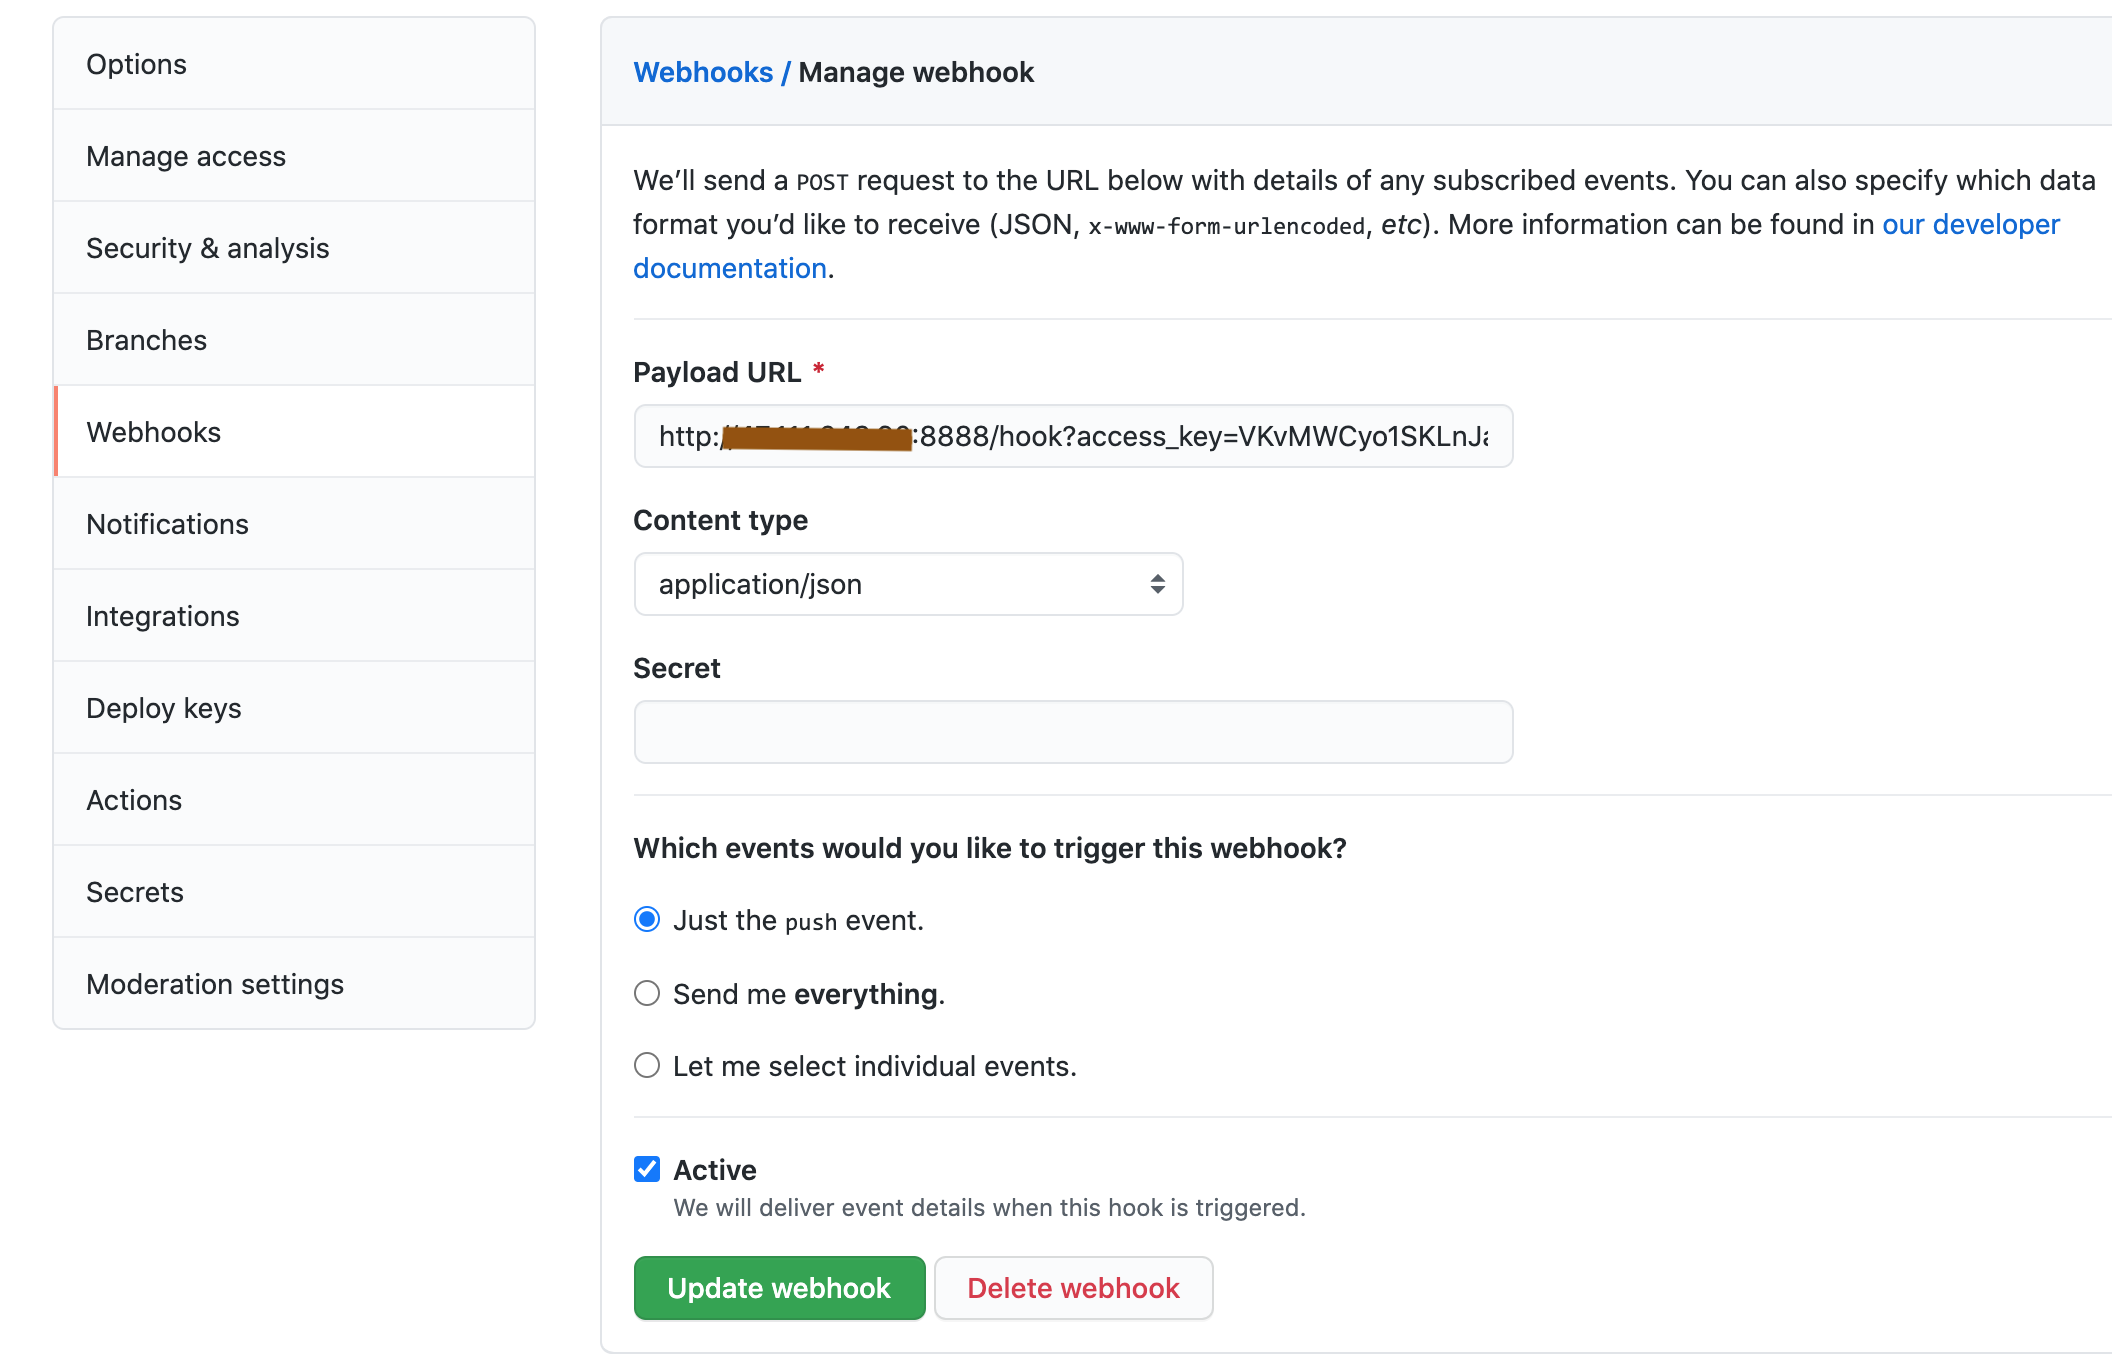
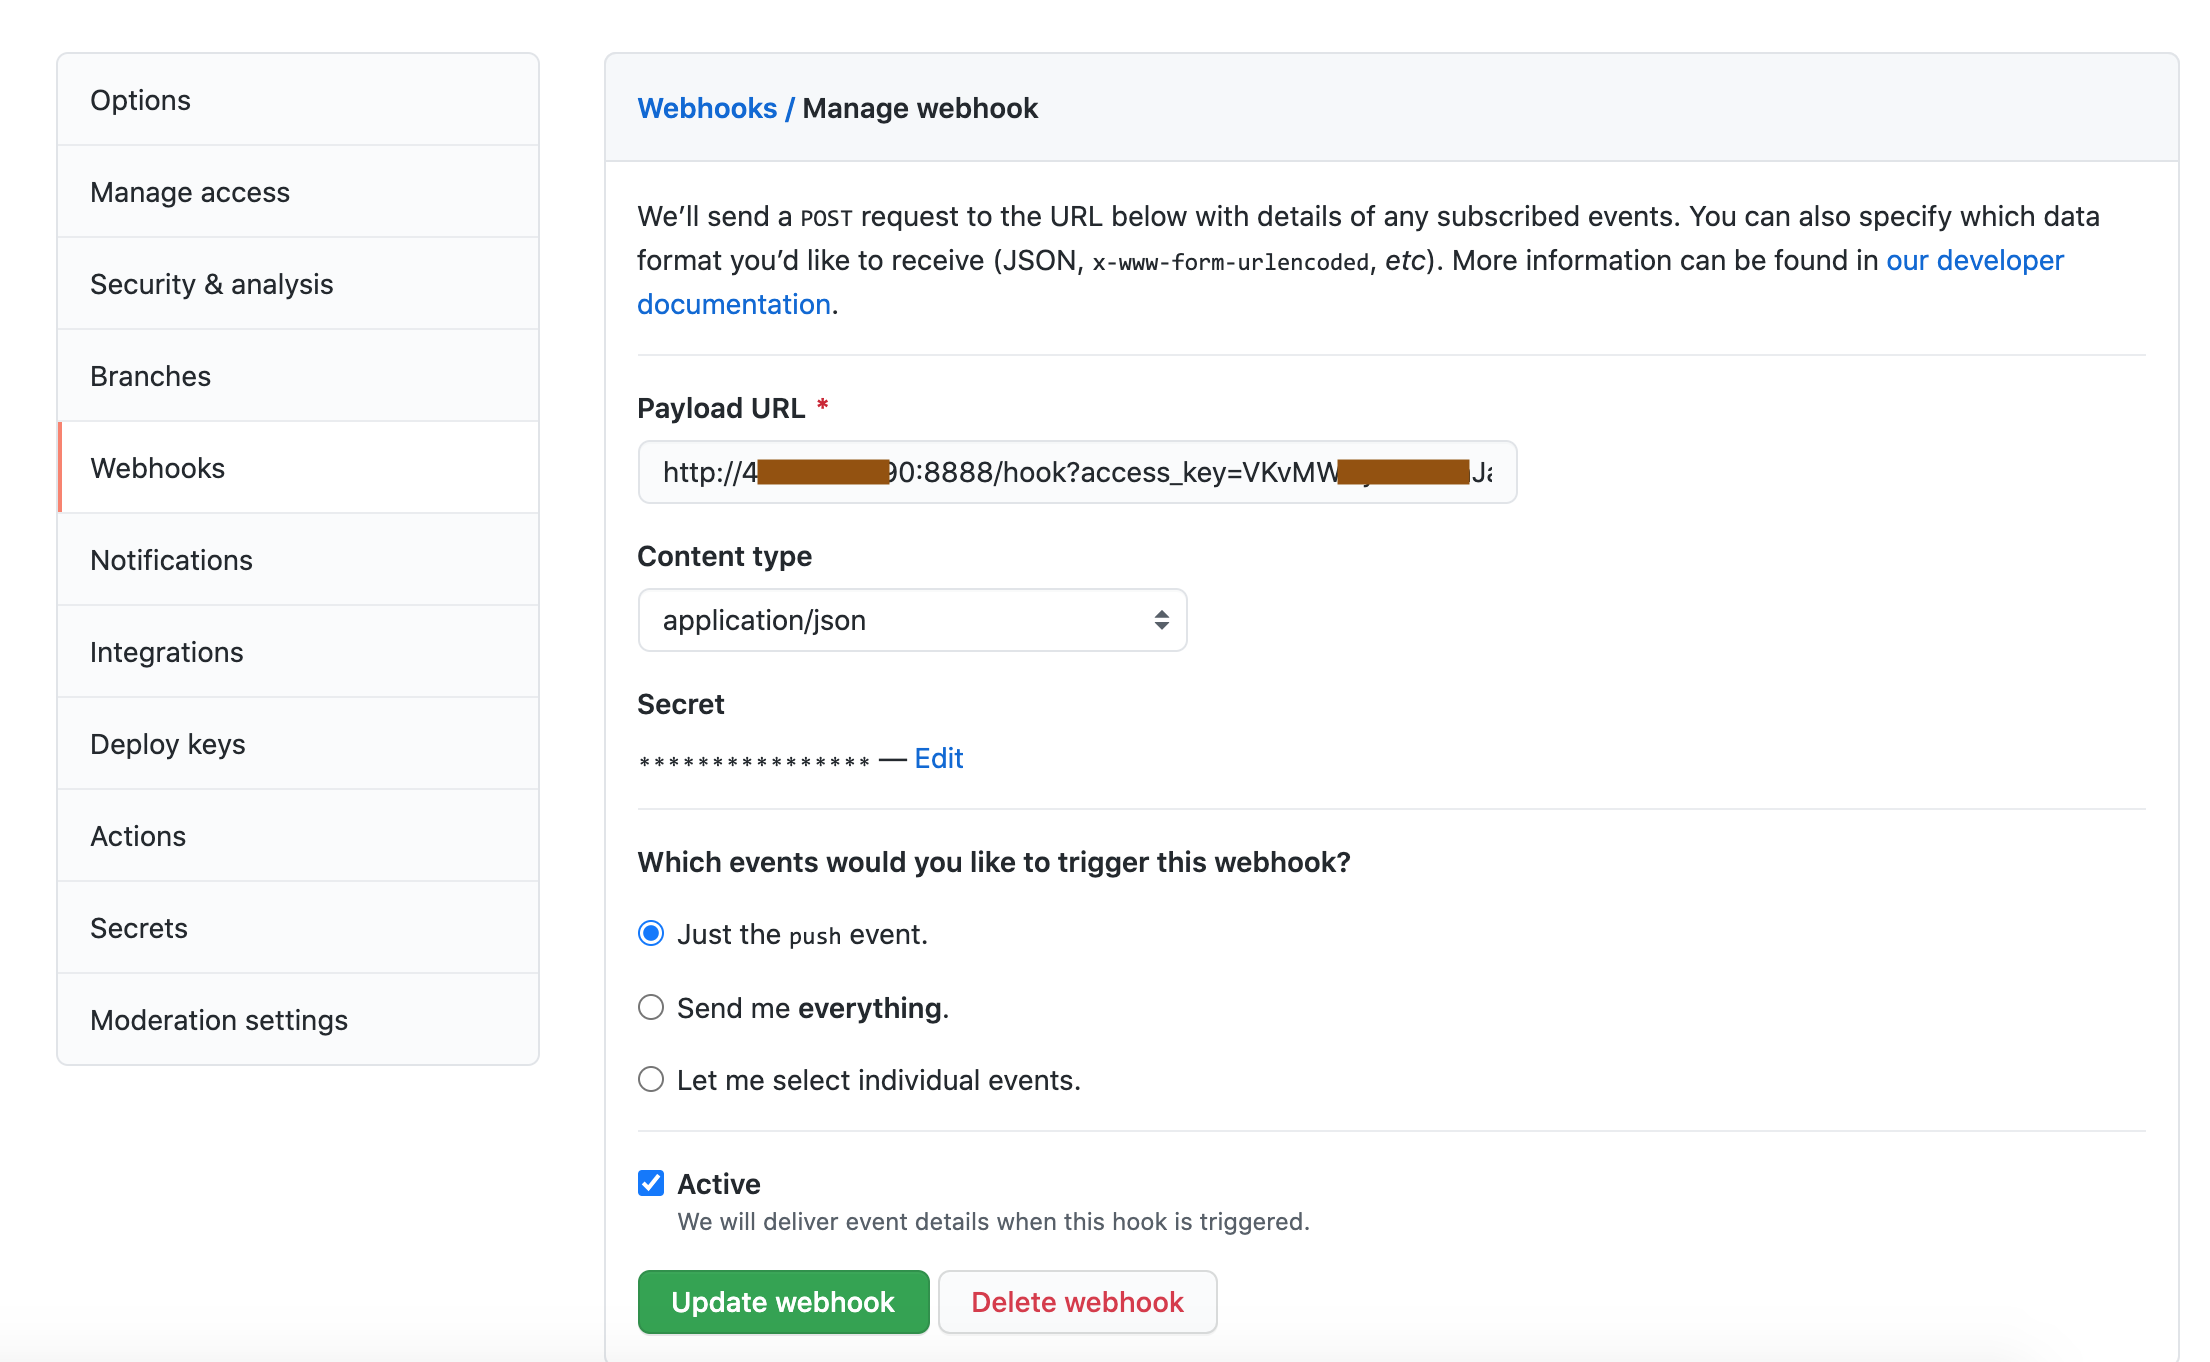
add

diff --git a/宝塔面板webhook的设置.md b/宝塔面板webhook的设置.md
@@ -1,5 +1,7 @@
 # 宝塔面板webhook的设置
 
-[这里](https://www.wispx.cn/17.html)有一篇文章,详细记录了在Gitee中设置webhook的方法, 如果在GitHub中设置webhook类似, 区别在于 Content type 需要设置成 `application/json`的形式:
+[这里](https://www.wispx.cn/17.html)有一篇文章,详细记录了在Gitee中设置webhook的方法, 如果在GitHub中设置webhook类似, 区别在于 Content type 需要设置成 `application/json`的形式, 而且最好在Secret中填入access_key的值:
 
 ![](images/1.png)
+
+http://47.111.243.90:8888/hook?access_key=SNr33v7GkubnVpYEruq42psZjx1y5X0tOWVgoGG9uunKR53h&param=thinkermaster-ios
